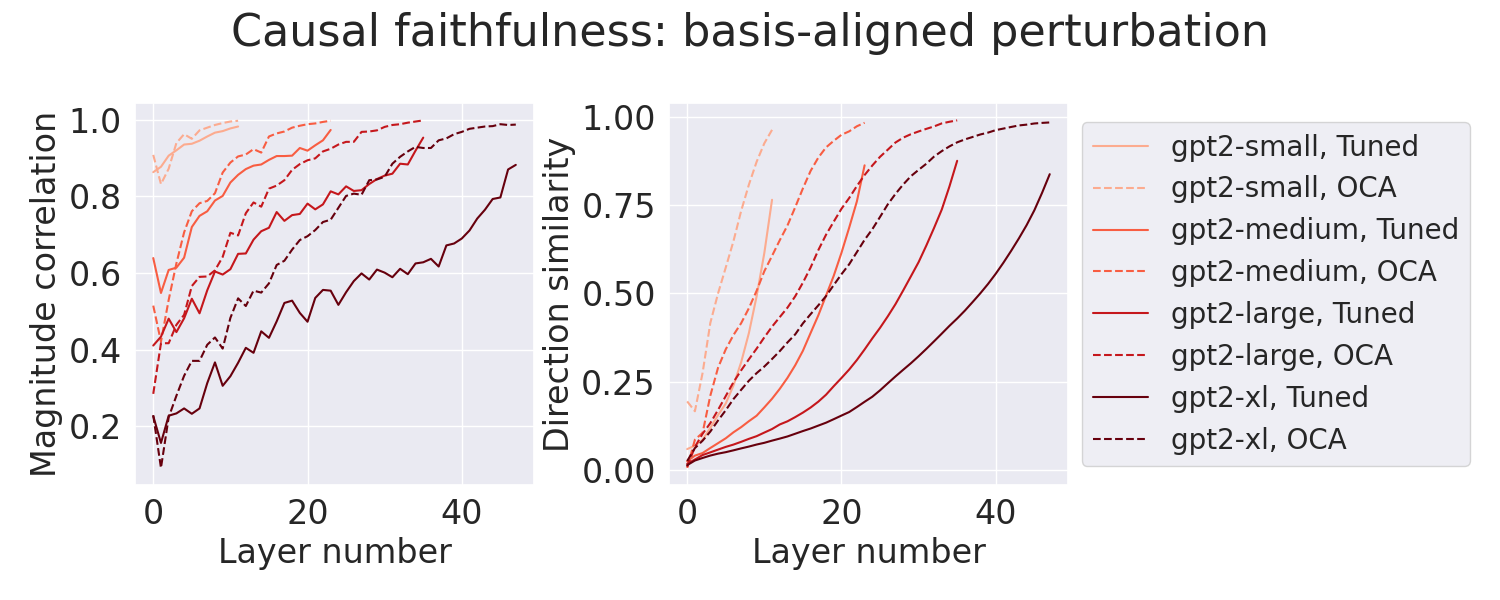
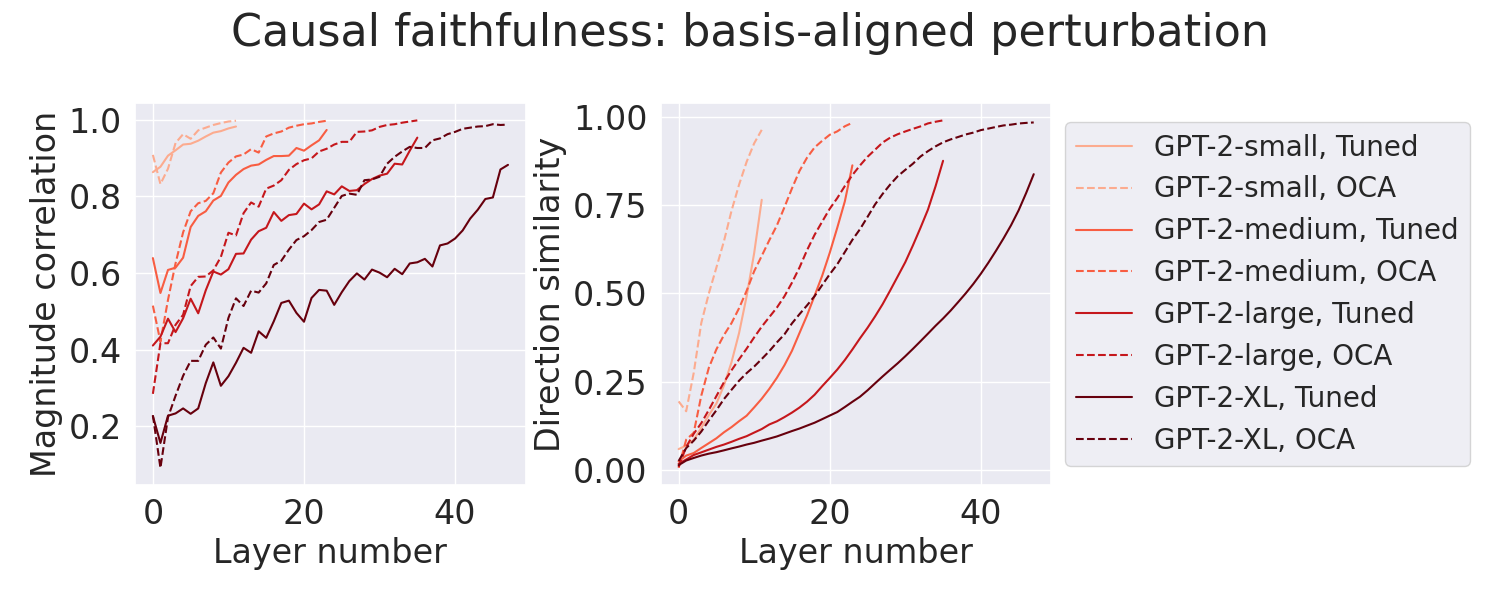
lens plots

diff --git a/lens_truthfulness.py b/lens_truthfulness.py
@@ -176,10 +176,10 @@ red_shades = plt.cm.Reds(np.linspace( 0.8, 0.5, 2))
 lineshades = {'True labels': blue_shades, 'Permuted labels': red_shades}
 
 def plot_figure(data, dataset_name, demos, string_labels=False):
-    CORR_SIZE = 16
-    SMALL_SIZE = 18
+    CORR_SIZE = 20
+    SMALL_SIZE = 20
     MEDIUM_SIZE = 20
-    BIGGER_SIZE = 24
+    BIGGER_SIZE = 32
 
     plt.rc('font', size=SMALL_SIZE)          # controls default text sizes
     plt.rc('axes', titlesize=SMALL_SIZE)     # fontsize of the axes title
@@ -189,8 +189,8 @@ def plot_figure(data, dataset_name, demos, string_labels=False):
     plt.rc('legend', fontsize=CORR_SIZE)    # legend fontsize
     plt.rc('figure', titlesize=BIGGER_SIZE)  # fontsize of the figure title
 
-    fig, axes = plt.subplots(1,3,figsize=(18,5))
-    lens_captions = {'modal': "OCA", 'tuned': "tuned"}
+    fig, axes = plt.subplots(1,3,figsize=(17,5))
+    lens_captions = {'modal': "OCA", 'tuned': "Tuned"}
 
     for ax_idx, n_demos in enumerate(demos):
         for label_mode in label_modes:
@@ -200,18 +200,19 @@ def plot_figure(data, dataset_name, demos, string_labels=False):
                 sns.lineplot(
                     x=np.arange(yvals.shape[0]),
                     y=yvals,
-                    label=f"{label_mode}, {lens_captions[lens_name]} lens".replace("labels", "demos").replace("Permuted", "False"),
+                    label=f"{label_mode}, {lens_captions[lens_name]}".replace("labels", "demos").replace("Permuted", "False"),
                     ax=axes[ax_idx],
                     color=lineshades[label_mode][j],
                     linestyle="solid" if lens_name == "tuned" else "dashed",
                     alpha=0.7
                 )
-            axes[ax_idx].axhline(y=data[n_demos][label_mode]['modal'][-1], color="black" if label_mode == "True labels" else "red", linestyle="dotted", label=f"{label_mode}, model accuracy".replace("labels", "demos").replace("Permuted", "False"))
-        axes[ax_idx].set(ylabel="Calibrated accuracy", xlabel="Layer number")
+            axes[ax_idx].axhline(y=data[n_demos][label_mode]['modal'][-1], color="black" if label_mode == "True labels" else "red", linestyle="dotted", label=f"{label_mode},\n full model".replace("labels", "demos").replace("Permuted", "False"))
+        axes[ax_idx].set(xlabel="Layer number")
         axes[ax_idx].set_title(n_demos if string_labels else f"{n_demos} demos")
         axes[ax_idx].get_legend().remove()
-    
-    axes[-1].legend(bbox_to_anchor=(1.05, 0.9))
+
+    axes[0].set(ylabel="Calibrated accuracy")
+    axes[-1].legend(bbox_to_anchor=(1.05, 1.05))
 
     plt.suptitle(f"Elicitation accuracy on {dataset_name.replace('_', ' ')}, GPT-2-XL")
     plt.tight_layout()
@@ -227,8 +228,8 @@ with open(f"{data_folder}/agg.pkl", "rb") as f:
 
 del agg_data['sst2_ab']
 
-for dataset_name in agg_data:
-    plot_figure(agg_data[dataset_name], dataset_name, demo_plot)
+# for dataset_name in agg_data:
+#     plot_figure(agg_data[dataset_name], dataset_name, demo_plot)
 # %%
 combined_stats = {
     n_demos: {
@@ -242,7 +243,7 @@ combined_stats = {
     } for n_demos in demo_plot
 }
 
-plot_figure(combined_stats, "all datasets", demo_plot)
+# plot_figure(combined_stats, "all datasets", demo_plot)
 
 # %%
 
@@ -336,20 +337,6 @@ for n_demos in demo_plot:
     plt.show()
 
 # %%
-
-CORR_SIZE = 12
-SMALL_SIZE = 18
-MEDIUM_SIZE = 20
-BIGGER_SIZE = 24
-
-plt.rc('font', size=SMALL_SIZE)          # controls default text sizes
-plt.rc('axes', titlesize=SMALL_SIZE)     # fontsize of the axes title
-plt.rc('axes', labelsize=MEDIUM_SIZE)    # fontsize of the x and y labels
-plt.rc('xtick', labelsize=SMALL_SIZE)    # fontsize of the tick labels
-plt.rc('ytick', labelsize=SMALL_SIZE)    # fontsize of the tick labels
-plt.rc('legend', fontsize=CORR_SIZE)    # legend fontsize
-plt.rc('figure', titlesize=BIGGER_SIZE)  # fontsize of the figure title
-
 n_demos = 10
 
 main_figure = {

diff --git a/lens_plot.py b/lens_plot.py
@@ -92,7 +92,7 @@ for title in titles:
             ax = sns.lineplot(x=x, y=corrs['dirs' if 'dirs' in corrs else 'points'][k], ax=axes[0], color=shade, linestyle=ls)
             axes[0].set(xlabel="Layer number", ylabel="Magnitude correlation")
 
-            ax = sns.lineplot(x=x, y=sim_vecs[k], ax=axes[-1], label=f"{model_name}, {ax_labels[k].split(' ')[0]}", color=shade, linestyle=ls)
+            ax = sns.lineplot(x=x, y=sim_vecs[k], ax=axes[-1], label=f"{model_name.replace('gpt', 'GPT-').replace('xl', 'XL')}, {ax_labels[k].split(' ')[0]}", color=shade, linestyle=ls)
             axes[-1].set(xlabel="Layer number", ylabel="Direction similarity")
             axes[-1].legend(loc='center left', bbox_to_anchor=(1, 0.5))
         # m, n = title.split("_")
@@ -163,7 +163,7 @@ for model_name in all_models:
         plt.ylim(-0.2,5.3)
         plt.xlabel("Layer number")
         plt.ylabel("KL-divergence")
-        plt.suptitle(f"Lens loss, {mn.replace('gpt', 'GPT-')}")
+        plt.suptitle(f"Lens loss, {mn.replace('gpt', 'GPT-').replace('xl', 'XL')}")
         plt.tight_layout()
         plt.savefig(f"{plot_folder}/overall-{mn}.png")
     continue
@@ -267,6 +267,7 @@ def load_plots(folders, lens_list, title, resample=False, offset=0, loop=False, 
     # break
 
 # %%
+lens_list = ['modal', 'tuned']
 plt.rc('axes', titlesize=12)     # fontsize of the axes title
 plt.rc('axes', labelsize=24)    # fontsize of the x and y labels
 
@@ -314,3 +315,5 @@ for model_name in all_models:
     plt.show()
     plt.close(f)
     
+
+# %%
